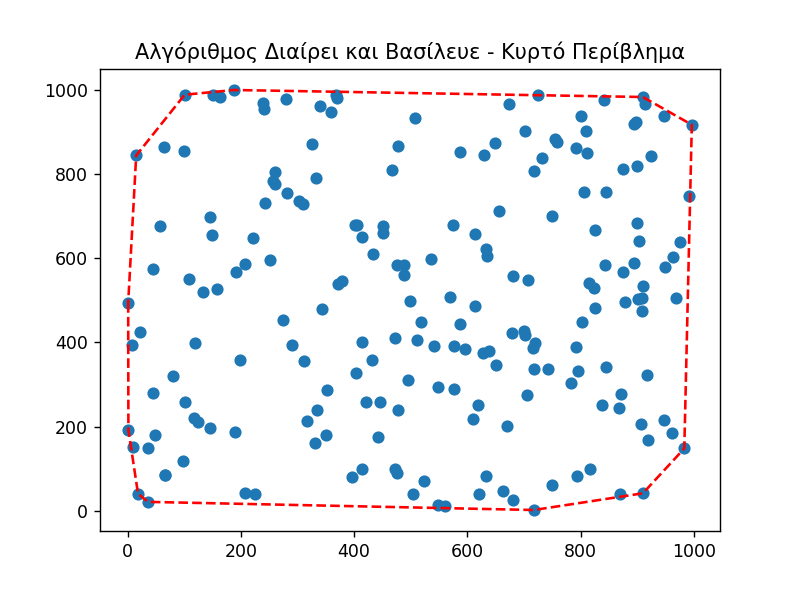
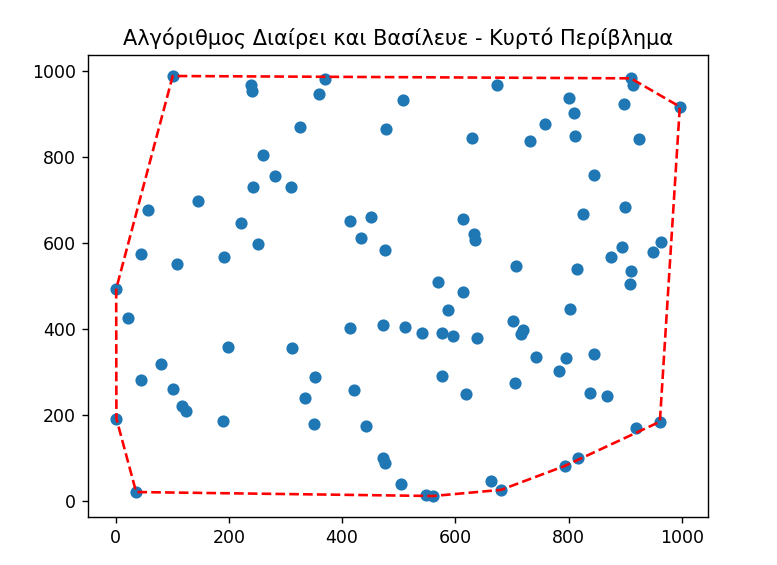
fixed divide image

diff --git a/ex1/divide.py b/ex1/divide.py
@@ -58,7 +58,7 @@ def merge_hulls(left, right):
     return lower_hull[:-1] + upper_hull[:-1]
 
 if __name__ == "__main__":
-    points = generate_points(200)
+    points = generate_points(100)
     convex_hull = divide_and_conquer(points)
 
     # Οπτικοποίηση αποτελέσματος

diff --git a/Readme.md b/Readme.md
@@ -167,7 +167,7 @@
 
 
 ### **Συμπεράσματα**
-Η σύγκριση των τεσσάρων αλγορίθμων δείχνει ότι ο αλγόριθμος QuickHull είναι ο πιο αποδοτικός για μεγάλες εισόδους, με πολυπλοκότητα \(O(n \log n)\). Αντίθετα, ο αλγόριθμος περιτυλίγματος δώρου είναι ο λιγότερο αποδοτικός λόγω της πολυπλοκότητας \(O(n^2)\). Ο αυξητικός αλγόριθμος και ο αλγόριθμος "Διαίρει και Βασίλευε" βρίσκονται κάπου ενδιάμεσα, με τον αυξητικό να είναι πιο αργός από τον "Διαίρει και Βασίλευε".
+Η σύγκριση των τεσσάρων αλγορίθμων δείχνει ότι ο αλγόριθμος QuickHull είναι ο πιο αποδοτικός για μεγάλες εισόδους, με πολυπλοκότητα $O(n \log n)$. Αντίθετα, ο αλγόριθμος περιτυλίγματος δώρου είναι ο λιγότερο αποδοτικός λόγω της πολυπλοκότητας $O(n^2)$. Ο αυξητικός αλγόριθμος και ο αλγόριθμος "Διαίρει και Βασίλευε" βρίσκονται κάπου ενδιάμεσα, με τον αυξητικό να είναι πιο αργός από τον "Διαίρει και Βασίλευε".
 
 Για εφαρμογές πραγματικού χρόνου, ο QuickHull αποτελεί την πιο κατάλληλη επιλογή λόγω της γρήγορης και ευέλικτης συμπεριφοράς του.
 
@@ -246,7 +246,7 @@ $$
 
 ### **Υπολογιστική Πολυπλοκότητα**
 
-Η υπολογιστική πολυπλοκότητα αυτών των δομών είναι ιδιαίτερα σημαντική. Η τριγωνοποίηση Delaunay εκτελείται σε \( O(n \log n) \), ενώ το διάγραμμα Voronoi έχει παρόμοια πολυπλοκότητα \( O(n \log n) \). Αυτές οι πολυπλοκότητες καθιστούν τις μεθόδους αποδοτικές για μεγάλα σύνολα δεδομένων.
+Η υπολογιστική πολυπλοκότητα αυτών των δομών είναι ιδιαίτερα σημαντική. Η τριγωνοποίηση Delaunay εκτελείται σε \( O(n \log n) \), ενώ το διάγραμμα Voronoi έχει παρόμοια πολυπλοκότητα $O(n \log n)$. Αυτές οι πολυπλοκότητες καθιστούν τις μεθόδους αποδοτικές για μεγάλα σύνολα δεδομένων.
 
 Η παρακάτω εικόνα δείχνει τη σύγκριση του χρόνου εκτέλεσης καθώς αυξάνεται ο αριθμός των σημείων:
 
